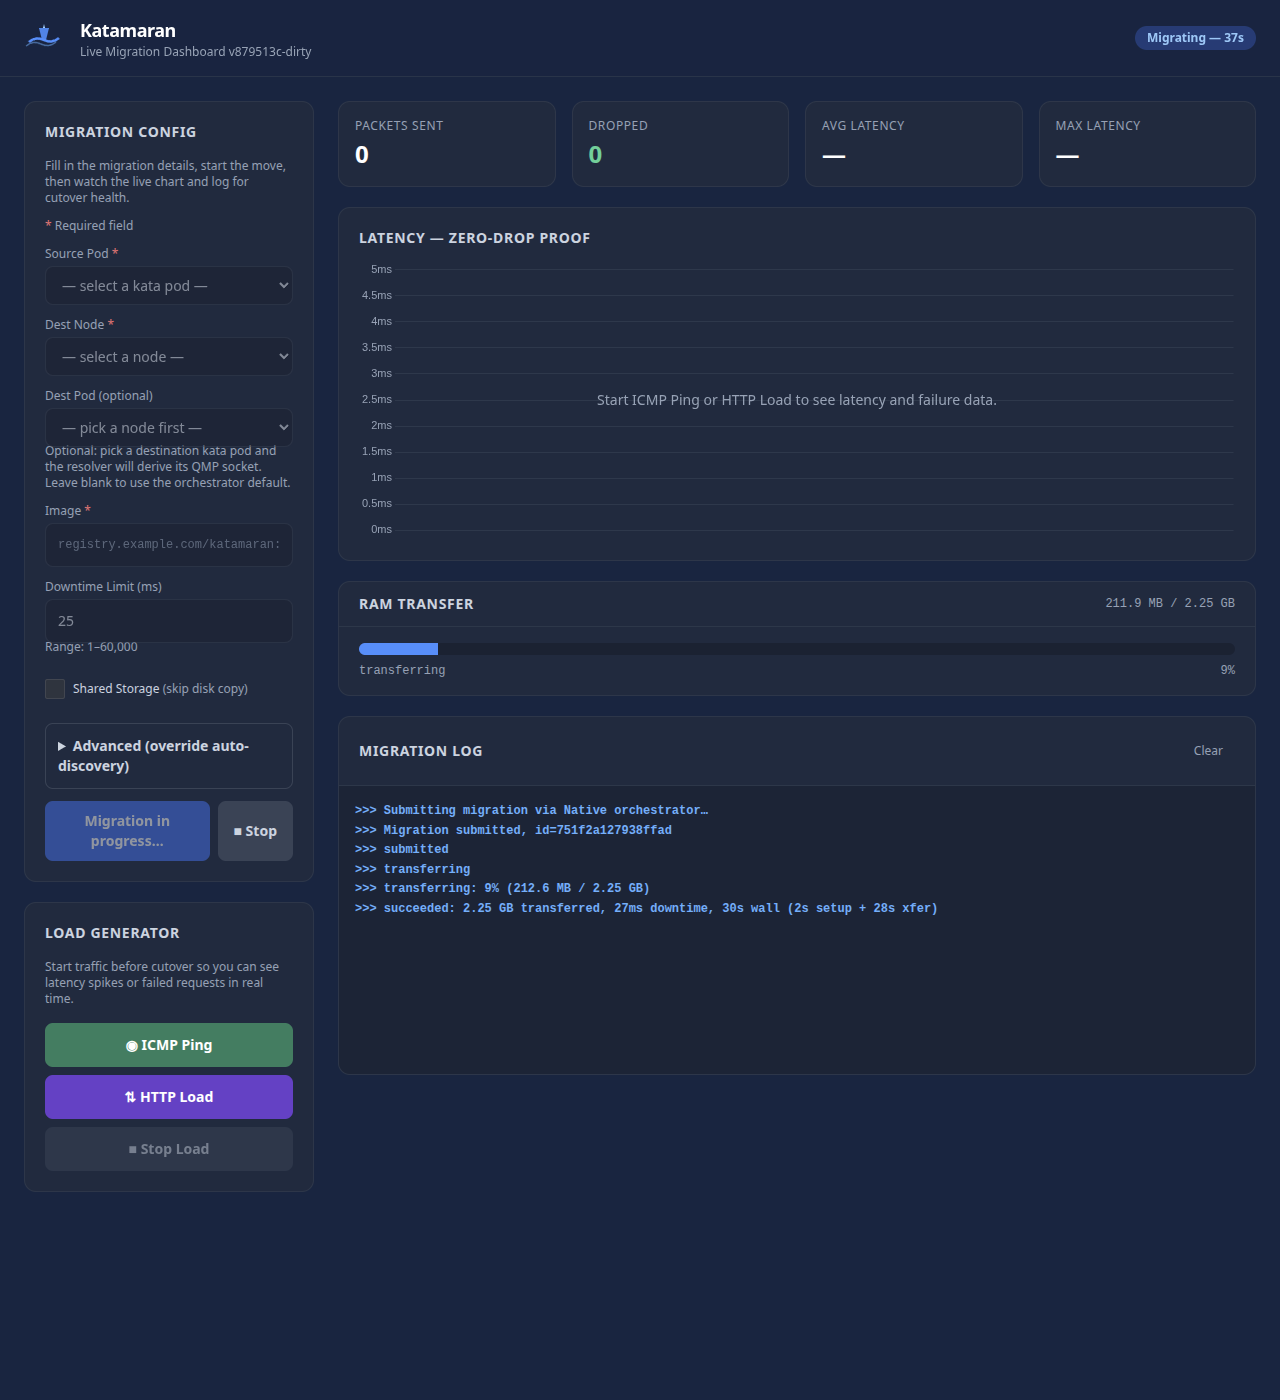
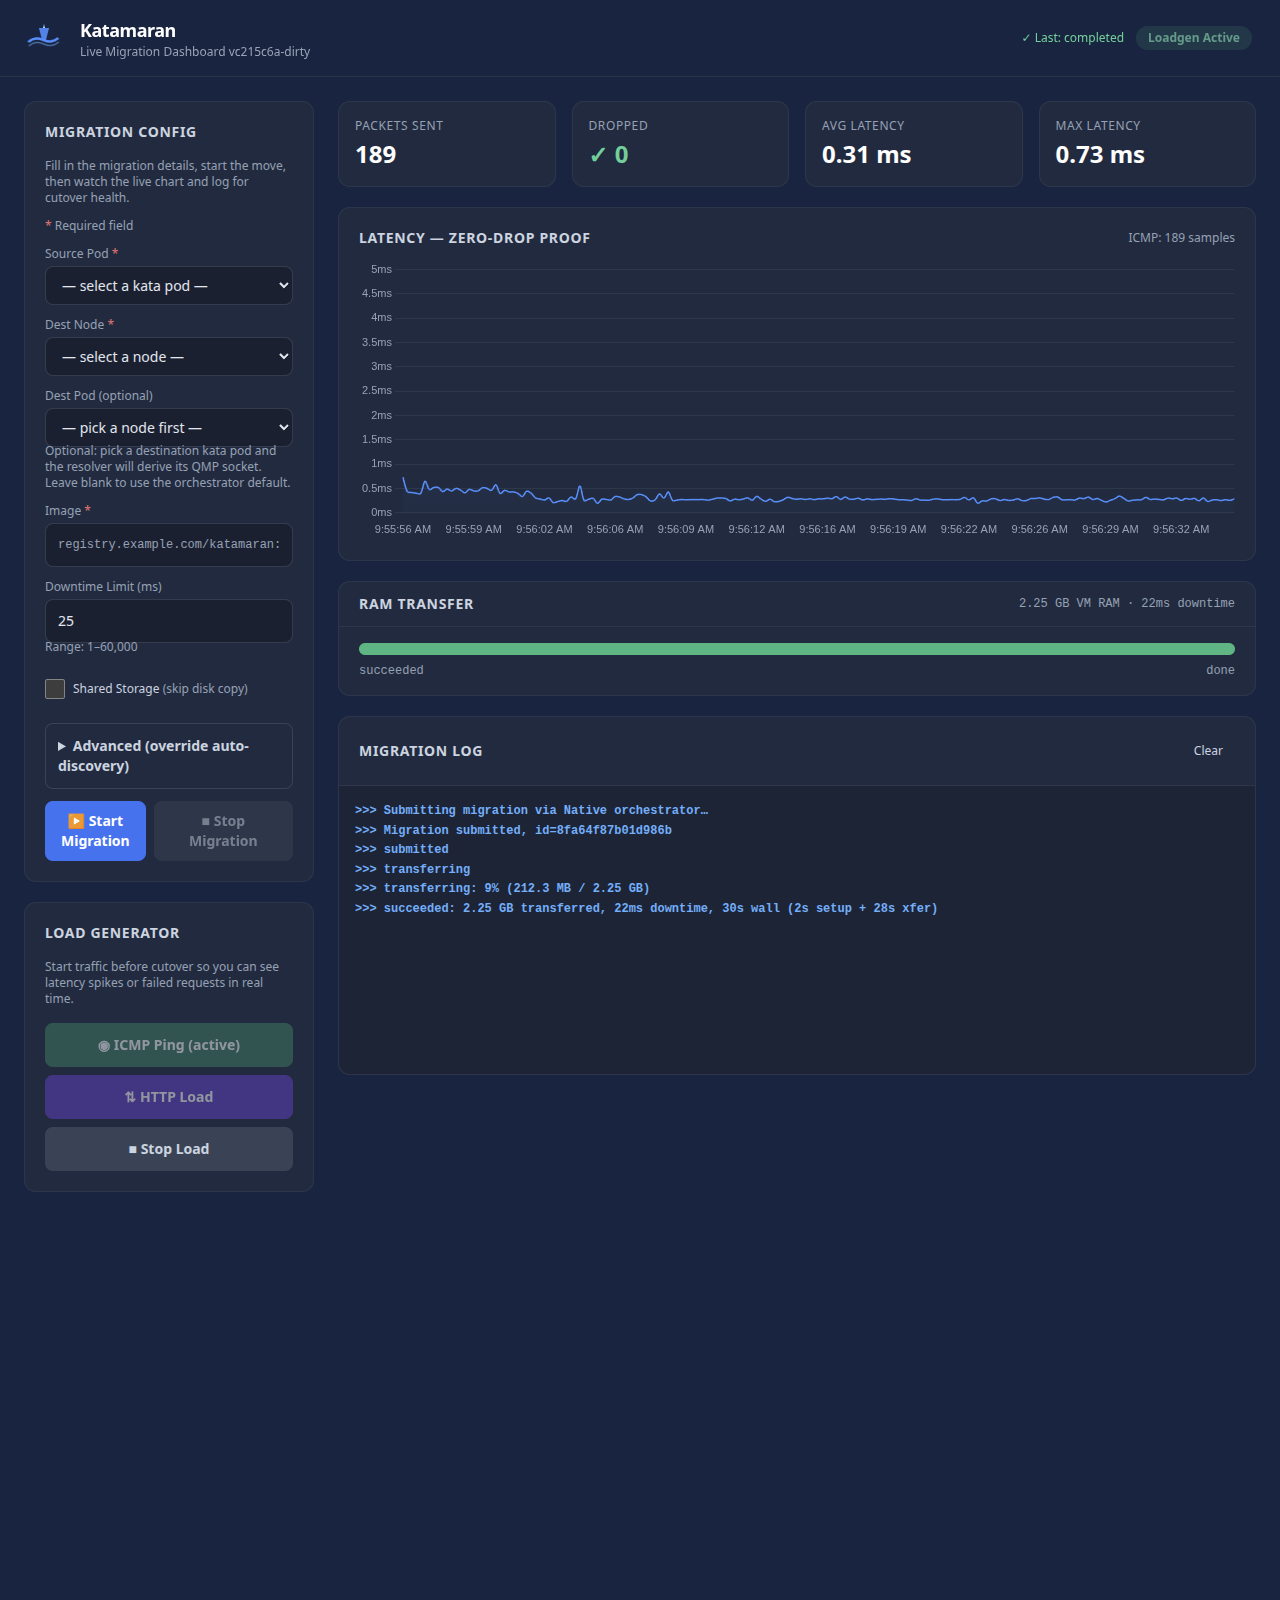
feat(downtime): surface auto-calculated downtime + use ICMP for RTT probe
The dashboard now exposes an Auto-downtime checkbox that flips
spec.autoDowntime / req.AutoDowntime. The source binary publishes the
downtime limit it actually programmed into QEMU (whether manual or
auto-calculated) via a new structured marker:

  KATAMARAN_DOWNTIME_LIMIT applied_ms=25 rtt_ms=0 auto=true

tailProgress scrapes the marker and emits a PhaseTransferring
StatusUpdate carrying AppliedDowntimeMS / RTTMS / AutoDowntime.

The reconciler patches three new Migration CR status fields:
  .status.appliedDowntimeMS - the limit programmed into QEMU
  .status.rttMS              - measured round-trip time
  .status.autoDowntime       - whether appliedDowntimeMS came from auto-calc

succeededUpdate's existing "captured" branch also forwards these so
the final terminal update carries them. The dashboard log line shows
both numbers:

  >>> succeeded: 2.25 GB transferred, 10ms downtime, 30s wall (...)
                                                       (limit 25ms, auto)

Critical bugfix uncovered along the way: measureRTT was opening
TCP connections to dest:4444, which is the EXACT port destination
QEMU's migrate-incoming listens on. Each RTT probe consumed a
"connection" from the listener's accept queue; QEMU then tried to
read the migration magic header off it, hit EOF, and surfaced
"Failed to peek at channel" / "QMP closed" the moment the real
migration arrived. Switch to ICMP echo (golang.org/x/net/icmp) so
[…]

diff --git a/internal/dashboard/index.html b/internal/dashboard/index.html
@@ -137,8 +137,13 @@
                         <div>
                             <label for="downtime" class="block text-xs text-slate-400 mb-1">Downtime Limit (ms)</label>
                             <input type="number" name="downtime" id="downtime" value="25" min="1" max="60000" inputmode="numeric" aria-describedby="downtime-help" class="w-full bg-slate-900/80 border border-slate-600/50 rounded-lg px-3 py-2 text-sm text-slate-200">
-                            <p id="downtime-help" class="text-xs text-slate-400 -mt-1">Range: 1–60,000</p>
+                            <p id="downtime-help" class="text-xs text-slate-400 -mt-1">Range: 1–60,000. Ignored when Auto-downtime is on.</p>
                         </div>
+                        <label class="flex items-center gap-2 cursor-pointer py-1">
+                            <input type="checkbox" name="auto_downtime" id="auto_downtime" value="true" aria-describedby="auto-downtime-help" class="w-4 h-4 rounded bg-slate-900 border-slate-600 text-hull-500 focus:ring-hull-500">
+                            <span class="text-xs text-slate-300">Auto-downtime <span class="text-slate-400">(measure RTT, set limit = RTT × 2 + 5ms)</span></span>
+                            <span id="auto-downtime-help" class="sr-only">Auto-calculate downtime limit from measured round-trip time to dest node.</span>
+                        </label>
                         <label class="flex items-center gap-2 cursor-pointer py-1">
                             <input type="checkbox" name="shared_storage" id="shared_storage" value="true" aria-describedby="shared-storage-help" class="w-4 h-4 rounded bg-slate-900 border-slate-600 text-hull-500 focus:ring-hull-500">
                             <span class="text-xs text-slate-300">Shared Storage <span class="text-slate-400">(skip disk copy)</span></span>

diff --git a/internal/migration/source.go b/internal/migration/source.go
@@ -8,9 +8,14 @@ import (
 	"log/slog"
 	"net"
 	"net/netip"
+	"os"
 	"path/filepath"
 	"slices"
 	"time"
+
+	"golang.org/x/net/icmp"
+	"golang.org/x/net/ipv4"
+	"golang.org/x/net/ipv6"
 
 	"github.com/maci0/katamaran/internal/qmp"
 )
@@ -234,16 +239,28 @@ func RunSource(ctx context.Context, cfg SourceConfig) error {
 		return fmt.Errorf("setting migration capabilities: %w", err)
 	}
 
+	var rttMS int64
 	if cfg.AutoDowntime {
 		rtt, err := measureRTTFunc(cfg.DestIP)
 		if err != nil {
 			slog.Warn("Failed to measure RTT for auto-downtime, using fallback", "error", err, "fallback_ms", downtimeLimitMS)
 		} else {
-			calculatedDowntime := int(rtt.Milliseconds()*rttMultiplier) + rttMinOverheadMS
-			slog.Info("Auto-calculated downtime limit", "downtime_ms", calculatedDowntime, "rtt_ms", rtt.Milliseconds())
+			rttMS = rtt.Milliseconds()
+			calculatedDowntime := int(rttMS*rttMultiplier) + rttMinOverheadMS
+			slog.Info("Auto-calculated downtime limit", "downtime_ms", calculatedDowntime, "rtt_ms", rttMS)
 			downtimeLimitMS = calculatedDowntime
 		}
 	}
+	// Stable, parser-friendly marker: surfaces the downtime limit the
+	// source actually programmed into QEMU (post auto-calc, post fallback)
+	// so the orchestrator can stamp it on the StatusUpdate / Migration CR
+	// before the cutover even starts.
+	autoFlag := false
+	if cfg.AutoDowntime {
+		autoFlag = true
+	}
+	fmt.Printf("KATAMARAN_DOWNTIME_LIMIT applied_ms=%d rtt_ms=%d auto=%t\n",
+		downtimeLimitMS, rttMS, autoFlag)
 
 	if _, err = client.Execute(ctx, "migrate-set-parameters", qmp.MigrateSetParametersArgs{
 		DowntimeLimit:   int64(downtimeLimitMS),
@@ -412,24 +429,75 @@ stopLoop:
 
 var measureRTTFunc = measureRTT
 
-// measureRTT estimates network round-trip time to the destination by performing
-// TCP handshake timing against the RAM migration port, used for auto-downtime
-// calculation. Returns the best (lowest) of three successful samples; any
-// failed sample aborts the measurement so callers can fall back explicitly.
+// measureRTT estimates network round-trip time to the destination by sending
+// ICMP echo requests, used for auto-downtime calculation. Returns the best
+// (lowest) of three successful samples; any failed sample aborts the
+// measurement so callers can fall back explicitly.
+//
+// We previously TCP-probed dest:4444 but that's the same port the destination
+// QEMU's migrate-incoming listener accepts on — every probe consumed a
+// connection and poisoned the listener, surfacing as "Failed to peek at
+// channel" once the real migration handshake arrived. ICMP is non-disruptive.
 func measureRTT(destIP netip.Addr) (time.Duration, error) {
 	const samples = 3
-	addr := net.JoinHostPort(destIP.String(), ramMigrationPort)
-	var best time.Duration
+	network := "ip4:icmp"
+	listenAddr := "0.0.0.0"
+	var icmpType icmp.Type = ipv4.ICMPTypeEcho
+	if destIP.Is6() {
+		network = "ip6:ipv6-icmp"
+		listenAddr = "::"
+		icmpType = ipv6.ICMPTypeEchoRequest
+	}
+	conn, err := icmp.ListenPacket(network, listenAddr)
+	if err != nil {
+		return 0, fmt.Errorf("opening ICMP socket (does the pod have CAP_NET_RAW?): %w", err)
+	}
+	defer func() { _ = conn.Close() }()
 
+	dst := &net.IPAddr{IP: net.IP(destIP.AsSlice())}
+	id := os.Getpid() & 0xffff
+	var best time.Duration
 	for i := 0; i < samples; i++ {
-		start := time.Now()
-		conn, err := net.DialTimeout("tcp", addr, rttDialTimeout)
+		msg := icmp.Message{
+			Type: icmpType,
+			Code: 0,
+			Body: &icmp.Echo{
+				ID:   id,
+				Seq:  i + 1,
+				Data: []byte("katamaran-rtt"),
+			},
+		}
+		buf, err := msg.Marshal(nil)
 		if err != nil {
-			return 0, fmt.Errorf("RTT sample %d/%d failed: %w", i+1, samples, err)
+			return 0, fmt.Errorf("marshalling ICMP echo %d/%d: %w", i+1, samples, err)
+		}
+		start := time.Now()
+		if _, err := conn.WriteTo(buf, dst); err != nil {
+			return 0, fmt.Errorf("RTT sample %d/%d send failed: %w", i+1, samples, err)
+		}
+		if err := conn.SetReadDeadline(time.Now().Add(rttDialTimeout)); err != nil {
+			return 0, fmt.Errorf("RTT sample %d/%d set deadline: %w", i+1, samples, err)
+		}
+		reply := make([]byte, 1500)
+		n, _, err := conn.ReadFrom(reply)
+		if err != nil {
+			return 0, fmt.Errorf("RTT sample %d/%d recv failed: %w", i+1, samples, err)
 		}
 		rtt := time.Since(start)
-		if cerr := conn.Close(); cerr != nil {
-			slog.Debug("RTT probe connection close error", "sample", i+1, "error", cerr)
+		// Sanity-check the reply: ignore unrelated ICMP traffic and require an
+		// echo-reply matching our id+seq before counting the sample.
+		proto := 1 // ICMPv4
+		if destIP.Is6() {
+			proto = 58 // ICMPv6
+		}
+		parsed, perr := icmp.ParseMessage(proto, reply[:n])
+		if perr != nil {
+			return 0, fmt.Errorf("RTT sample %d/%d parse failed: %w", i+1, samples, perr)
+		}
+		echo, ok := parsed.Body.(*icmp.Echo)
+		if !ok || echo.ID != id || echo.Seq != i+1 {
+			i-- // not our reply, retry this sample
+			continue
 		}
 		slog.Debug("RTT sample", "sample", i+1, "of", samples, "rtt", rtt)
 		if i == 0 || rtt < best {

diff --git a/internal/dashboard/migrate.go b/internal/dashboard/migrate.go
@@ -24,6 +24,7 @@ func formToOrchestratorRequest(r *http.Request, podMode bool, resolvedSrcNode, r
 		Image:         r.PostFormValue("image"),
 		SharedStorage: r.PostFormValue("shared_storage") == "true",
 		ReplayCmdline: r.PostFormValue("replay_cmdline") == "true",
+		AutoDowntime:  r.PostFormValue("auto_downtime") == "true",
 		TapNetns:      r.PostFormValue("tap_netns"),
 		TunnelMode:    r.PostFormValue("tunnel_mode"),
 	}
@@ -87,7 +88,7 @@ func (a *App) handleMigrate(w http.ResponseWriter, r *http.Request) {
 	}
 
 	// Validate all form values against shell metacharacters.
-	formKeys := []string{"source_node", "dest_node", "qmp_source", "qmp_dest", "tap", "tap_netns", "dest_ip", "vm_ip", "image", "shared_storage", "downtime", "source_pod_name", "source_pod_namespace", "dest_pod_name", "dest_pod_namespace", "replay_cmdline", "tunnel_mode"}
+	formKeys := []string{"source_node", "dest_node", "qmp_source", "qmp_dest", "tap", "tap_netns", "dest_ip", "vm_ip", "image", "shared_storage", "downtime", "source_pod_name", "source_pod_namespace", "dest_pod_name", "dest_pod_namespace", "replay_cmdline", "tunnel_mode", "auto_downtime"}
 	for _, key := range formKeys {
 		if v := r.PostFormValue(key); v != "" && !validFormValue(v) {
 			slog.Warn("Rejected invalid form value", "field", key, "request_id", requestIDFromContext(r.Context()))
@@ -105,6 +106,11 @@ func (a *App) handleMigrate(w http.ResponseWriter, r *http.Request) {
 	if v := r.PostFormValue("replay_cmdline"); v != "" && v != "true" && v != "false" {
 		slog.Warn("Rejected invalid replay_cmdline value", "request_id", requestIDFromContext(r.Context()))
 		jsonError(w, "Invalid value for replay_cmdline (must be 'true' or 'false')", http.StatusBadRequest)
+		return
+	}
+	if v := r.PostFormValue("auto_downtime"); v != "" && v != "true" && v != "false" {
+		slog.Warn("Rejected invalid auto_downtime value", "request_id", requestIDFromContext(r.Context()))
+		jsonError(w, "Invalid value for auto_downtime (must be 'true' or 'false')", http.StatusBadRequest)
 		return
 	}
 
@@ -302,10 +308,28 @@ func (a *App) runOrchestrator(ctx context.Context, orch orchestrator.Orchestrato
 		}
 		line := ">>> " + string(u.Phase)
 		switch {
+		case u.AppliedDowntimeMS > 0 && u.RAMTotal == 0:
+			// Pre-cutover downtime-limit announcement (separate
+			// StatusUpdate emitted by tailProgress when it sees the
+			// KATAMARAN_DOWNTIME_LIMIT marker). Shows up between
+			// "submitted" and the first transferring%.
+			line += fmt.Sprintf(": downtime limit %dms", u.AppliedDowntimeMS)
+			if u.AutoDowntime {
+				line += fmt.Sprintf(" (auto from %dms RTT)", u.RTTMS)
+			} else {
+				line += " (manual)"
+			}
 		case u.Phase == orchestrator.PhaseSucceeded && u.RAMTotal > 0:
 			line += fmt.Sprintf(": %s transferred", humanBytes(u.RAMTotal))
 			if u.DowntimeMS > 0 {
 				line += fmt.Sprintf(", %dms downtime", u.DowntimeMS)
+			}
+			if u.AppliedDowntimeMS > 0 {
+				if u.AutoDowntime {
+					line += fmt.Sprintf(" (limit %dms, auto)", u.AppliedDowntimeMS)
+				} else {
+					line += fmt.Sprintf(" (limit %dms)", u.AppliedDowntimeMS)
+				}
 			}
 			if breakdown := phaseBreakdown(start, phaseAt, u.When); breakdown != "" {
 				line += ", " + breakdown

diff --git a/internal/orchestrator/native.go b/internal/orchestrator/native.go
@@ -73,6 +73,14 @@ type nativeRun struct {
 	resultDowntime int64
 	resultRAMXfer  int64
 	resultRAMTotal int64
+
+	// Downtime-limit marker captured from the source pod log before the
+	// cutover. Populated by tailProgress when it sees
+	// KATAMARAN_DOWNTIME_LIMIT, surfaced by succeededUpdate too.
+	downtimeCaptured bool
+	appliedDowntime  int64
+	rttMS            int64
+	autoDowntime     bool
 }
 
 // ErrReplayCmdlineNotSupported is returned by Apply when the request has
@@ -244,8 +252,9 @@ func (n *native) tailProgress(ctx context.Context, id MigrationID, run *nativeRu
 		return // source pod never appeared; poll will surface the failure
 	}
 	const (
-		progressMarker = "KATAMARAN_PROGRESS "
-		resultMarker   = "KATAMARAN_RESULT "
+		progressMarker      = "KATAMARAN_PROGRESS "
+		resultMarker        = "KATAMARAN_RESULT "
+		downtimeLimitMarker = "KATAMARAN_DOWNTIME_LIMIT "
 		// logFetchOverlapSec bounds how much of the source pod's log we
 		// re-fetch per tick. The ticker fires every 2s; a 30s window gives
 		// generous slack for transient apiserver hiccups while keeping the
@@ -313,6 +322,36 @@ func (n *native) tailProgress(ctx context.Context, id MigrationID, run *nativeRu
 				done = true
 				break
 			}
+			if i := strings.Index(line, downtimeLimitMarker); i >= 0 {
+				seen[line] = true
+				fields := parseProgressFields(line[i+len(downtimeLimitMarker):])
+				applied := parseInt64(fields["applied_ms"])
+				rttMS := parseInt64(fields["rtt_ms"])
+				autoFlag := fields["auto"] == "true"
+				run.resultMu.Lock()
+				run.appliedDowntime = applied
+				run.rttMS = rttMS
+				run.autoDowntime = autoFlag
+				run.downtimeCaptured = true
+				run.resultMu.Unlock()
+				msg := fmt.Sprintf("downtime limit applied: %dms", applied)
+				if autoFlag {
+					msg += fmt.Sprintf(" (auto from %dms RTT)", rttMS)
+				}
+				if !send(StatusUpdate{
+					ID:                id,
+					Phase:             PhaseTransferring,
+					When:              time.Now(),
+					Message:           msg,
+					AppliedDowntimeMS: applied,
+					RTTMS:             rttMS,
+					AutoDowntime:      autoFlag,
+				}) {
+					done = true
+					break
+				}
+				continue
+			}
 			i := strings.Index(line, progressMarker)
 			if i < 0 {
 				continue
@@ -374,6 +413,11 @@ func (n *native) succeededUpdate(ctx context.Context, id MigrationID, run *nativ
 		u.DowntimeMS = run.resultDowntime
 		u.RAMTransferred = run.resultRAMXfer
 		u.RAMTotal = run.resultRAMTotal
+	}
+	if run.downtimeCaptured {
+		u.AppliedDowntimeMS = run.appliedDowntime
+		u.RTTMS = run.rttMS
+		u.AutoDowntime = run.autoDowntime
 	}
 	run.resultMu.Unlock()
 	if captured {

diff --git a/internal/migration/source_test.go b/internal/migration/source_test.go
@@ -15,6 +15,8 @@ import (
 	"testing"
 	"time"
 
+	"golang.org/x/net/icmp"
+
 	"github.com/maci0/katamaran/internal/qmp"
 	"github.com/maci0/katamaran/internal/qmptest"
 )
@@ -758,35 +760,21 @@ func TestMigrationTerminalError(t *testing.T) {
 }
 
 func TestMeasureRTT(t *testing.T) {
-	l, err := net.Listen("tcp", net.JoinHostPort("127.0.0.1", ramMigrationPort))
-	if err != nil {
-		t.Skipf("cannot bind RTT test listener on %s: %v", ramMigrationPort, err)
+	// measureRTT uses raw ICMP which needs CAP_NET_RAW (or
+	// net.ipv4.ping_group_range covering this uid). Skip when we can't
+	// open the listener instead of failing — production source pods run
+	// privileged and always have the capability.
+	if c, err := icmp.ListenPacket("ip4:icmp", "0.0.0.0"); err != nil {
+		t.Skipf("ICMP socket not available in this test env: %v", err)
+	} else {
+		_ = c.Close()
 	}
-	defer l.Close()
-
-	done := make(chan struct{})
-	go func() {
-		defer close(done)
-		for i := 0; i < 3; i++ {
-			conn, err := l.Accept()
-			if err != nil {
-				return
-			}
-			conn.Close()
-		}
-	}()
-
 	rtt, err := measureRTT(netip.MustParseAddr("127.0.0.1"))
 	if err != nil {
 		t.Fatalf("measureRTT: %v", err)
 	}
 	if rtt <= 0 {
 		t.Fatalf("measureRTT returned non-positive duration: %v", rtt)
-	}
-	select {
-	case <-done:
-	case <-time.After(time.Second):
-		t.Fatal("measureRTT did not complete all RTT samples")
 	}
 }
 

diff --git a/internal/orchestrator/types.go b/internal/orchestrator/types.go
@@ -149,4 +149,22 @@ type StatusUpdate struct {
 	// DowntimeMS is set in the final PhaseSucceeded update — the actual VM
 	// pause duration measured by QEMU's query-migrate.
 	DowntimeMS int64
+
+	// AppliedDowntimeMS is the downtime limit the source binary
+	// programmed into QEMU before starting RAM migration. Equal to the
+	// caller-supplied value when AutoDowntime is false, or to the
+	// auto-calculated rtt*multiplier+overhead value when true. Emitted
+	// once at the start of the run via a separate StatusUpdate so the
+	// dashboard / CR controller can surface the chosen number before
+	// the cutover happens.
+	AppliedDowntimeMS int64
+
+	// RTTMS is the round-trip-time measurement that fed the auto-downtime
+	// calculation. Zero when AutoDowntime is off or RTT measurement
+	// failed.
+	RTTMS int64
+
+	// AutoDowntime mirrors Request.AutoDowntime so consumers know
+	// whether AppliedDowntimeMS came from the auto-calc path.
+	AutoDowntime bool
 }

diff --git a/internal/migration/config.go b/internal/migration/config.go
@@ -86,8 +86,10 @@ const (
 
 	// rttMinOverheadMS is the minimum overhead in milliseconds added to the
 	// RTT-based downtime estimate. Accounts for QEMU processing latency
-	// that is independent of network RTT.
-	rttMinOverheadMS = 10
+	// that is independent of network RTT, plus enough headroom for
+	// kata-agent / kernel page-dirtying so an idle VM still converges.
+	// 25ms matches the manual --downtime default (1 frame at 40Hz).
+	rttMinOverheadMS = 25
 
 	// rttDialTimeout is the maximum time to wait for each TCP handshake
 	// when measuring round-trip time to the destination.

diff --git a/internal/controller/reconciler.go b/internal/controller/reconciler.go
@@ -516,6 +516,15 @@ func (r *Reconciler) patchStatusUpdate(ctx context.Context, key types.Namespaced
 	if u.DowntimeMS > 0 {
 		status["actualDowntimeMS"] = u.DowntimeMS
 	}
+	if u.AppliedDowntimeMS > 0 {
+		status["appliedDowntimeMS"] = u.AppliedDowntimeMS
+	}
+	if u.RTTMS > 0 {
+		status["rttMS"] = u.RTTMS
+	}
+	if u.AutoDowntime {
+		status["autoDowntime"] = true
+	}
 	if u.Phase == orchestrator.PhaseSubmitted {
 		status["startedAt"] = time.Now().UTC().Format(time.RFC3339)
 	}
